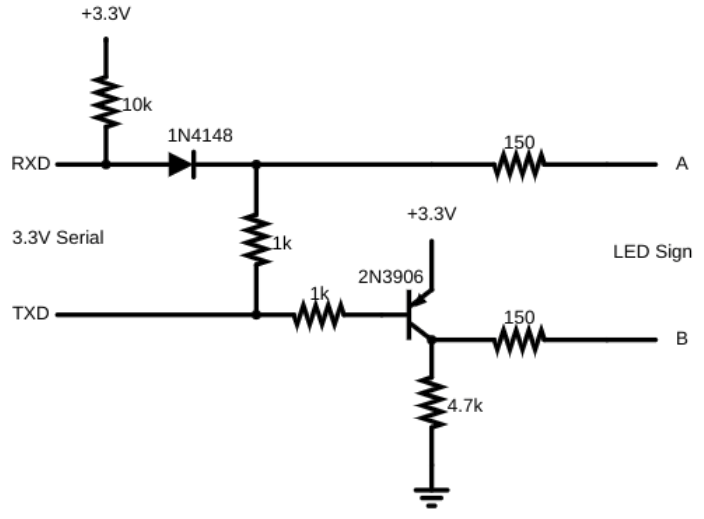
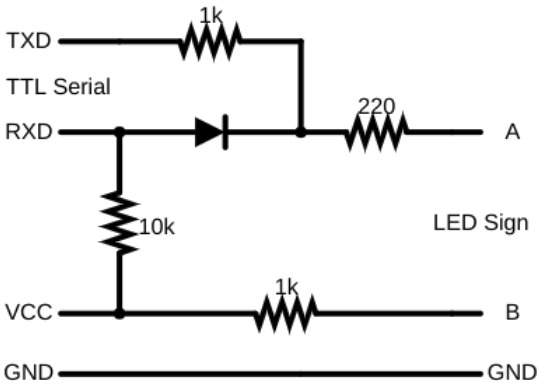
Simpler circuit

diff --git a/README.md b/README.md
@@ -1,32 +1,30 @@
-# Node.js Script and TTL Serial to J1708 Converter Circuit Schematic for NXTP7X962M LED Sign
+# Node.js Script and Serial to J1708 Circuit for NXTP7X962M LED Signs
+
+## Description
+Drive an LED sign thru any serial port on your computer. Circuit provided for connecting the sign to any TTL (e.g. 5V or 3.3V) serial port, e.g. a USB to TTL serial adapter.
+
+## Instructions
+1. Edit serial port name in index.js if yours is not ttyUSB0. Use COM names in Windows, e.g. COM1.
+2. Run `yarn` to install dependencies into node_modules folder.
+3. Run `yarn start` to run the script. Scrolls "HELLO WORLD!!!" across the sign.
 
 ## Requirements
 * Node.js
 * Yarn
-* Serial port
-
-## Instructions
-1. Edit serial port in index.js if yours is not ttyUSB0.
-2. Run `yarn` to install dependencies into node_modules folder.
-3. Run `yarn start` to run the script. Scrolls "HELLO WORLD!!!" across the sign.
+* 5V or 3.3V TTL serial port
 
 ## Circuit
-* Can connect any TTL 3.3v serial port to the LED sign's J1708 port. For example:
+* Connects any TTL serial port to the LED sign's J1708 port. For example:
+  * USB to TTL serial adapters (e.g. with the Node script in this project)
   * Raspberry Pis
-  * 3.3v Arduinos
-  * USB to 3.3V TTL serial adapters
-* Tested with one LED sign. Daisy chaining might be possible, YMMV.
-* Parts and values are flexible.
-  * Most any PNP transistor and power/signal/schottky diode should work.
-  * Can substitute other values for the resistors as long as they are reasonable.
+  * Arduinos
+* Parts and values are flexible. Use whatever you have on hand:
+  * Pretty much any power/signal/schottky diode should work.
+  * You can substitute other values for the resistors as long as they are reasonably close.
 * circuitjs.txt can be imported at https://www.falstad.com/circuit/
+* Tested with one LED sign attached. Daisy chaining more than one sign might be possible with this circuit, YMMV.
 
 ## Circuit Explanation
+The circuit fakes a differential serial signal to drive the sign's J1708 port, i.e. pin A and pin B. It holds pin B at roughly half the single-ended serial voltage -- the 1k resistor drops the voltage due to the sign's sink current at pin B -- while driving pin A from the TXD pin of a regular TTL serial port thru a 1k resistor. The 220 ohm resistor is just protection that limits the max current to/from the sign.
 
-The circuit does not meet the J1708 spec, it just sends 3.3v TTL serial to the
-sign straight on one pin (A) and inverted on the other pin (B) with some inline
-impedance. The goal was to be really simple, i.e. mostly resistors. It could
-probably be done even simpler. The 10k resistor + diode combination near the RXD
-is to protect the 3.3v pin since the sign tries to pull up pin A toward 5v. If
-you adapt the circuit for 5v TTL serial, or if you have 5v tolerant input pins,
-you don't need the 10k resistor + diode.
+The 10k resistor and diode clip the voltage at RXD to VCC to protect the RXD port, e.g. for 3.3V serial devices which may not be 5V tolerant, since the sign tries to bring port A near 5V. If your RXD pin is 5V tolerant, you can replace the diode with a wire and omit the 10k resistor.
